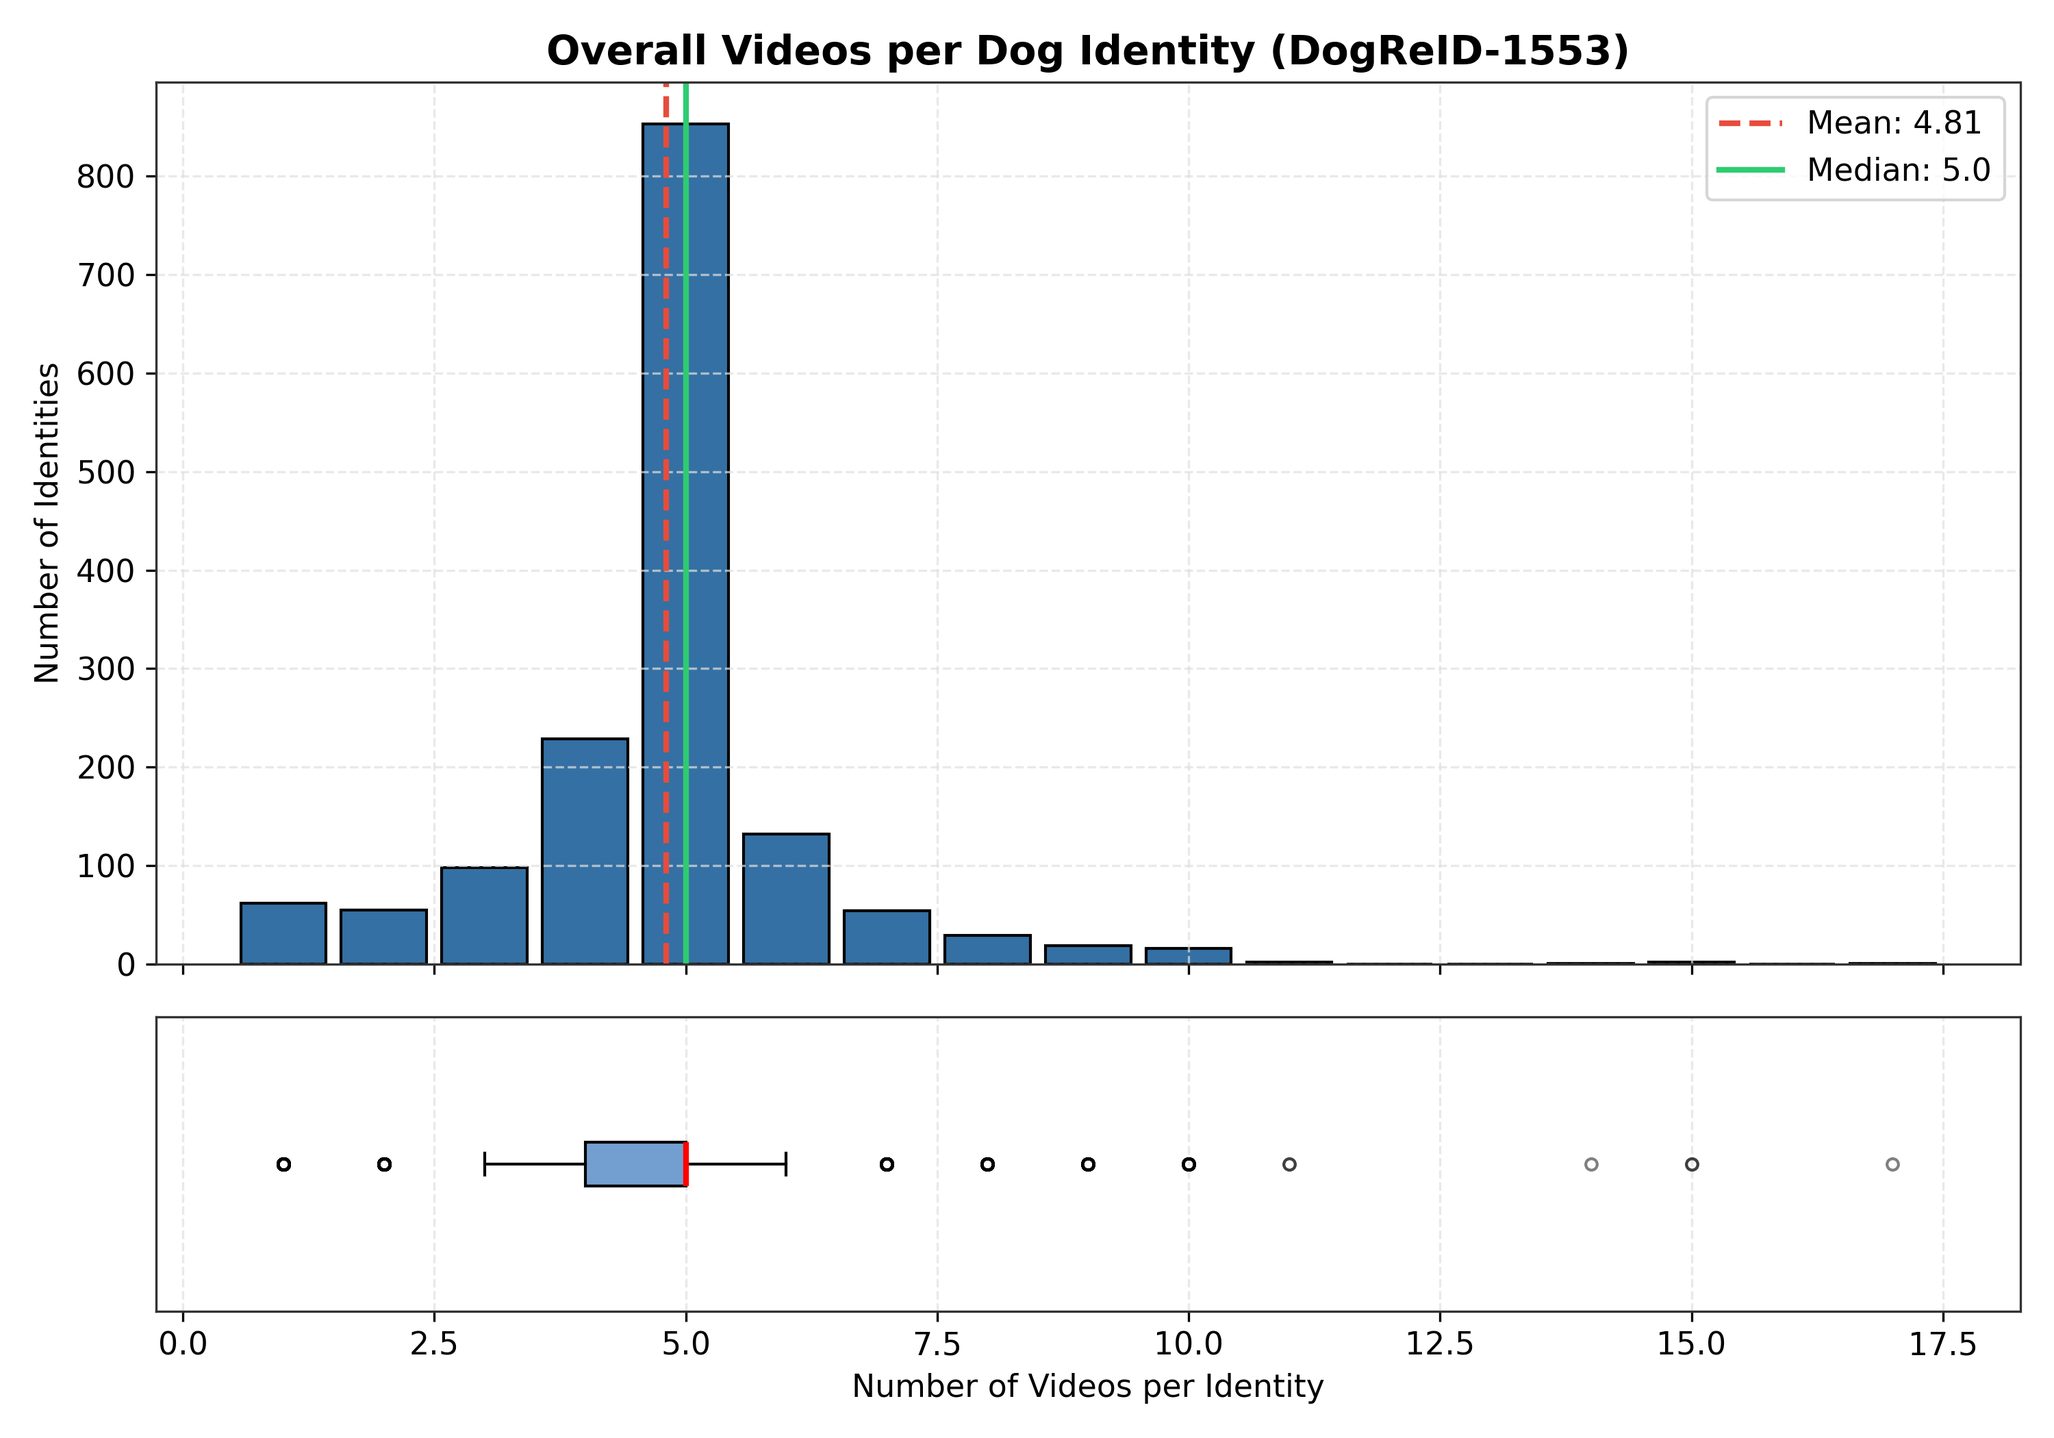
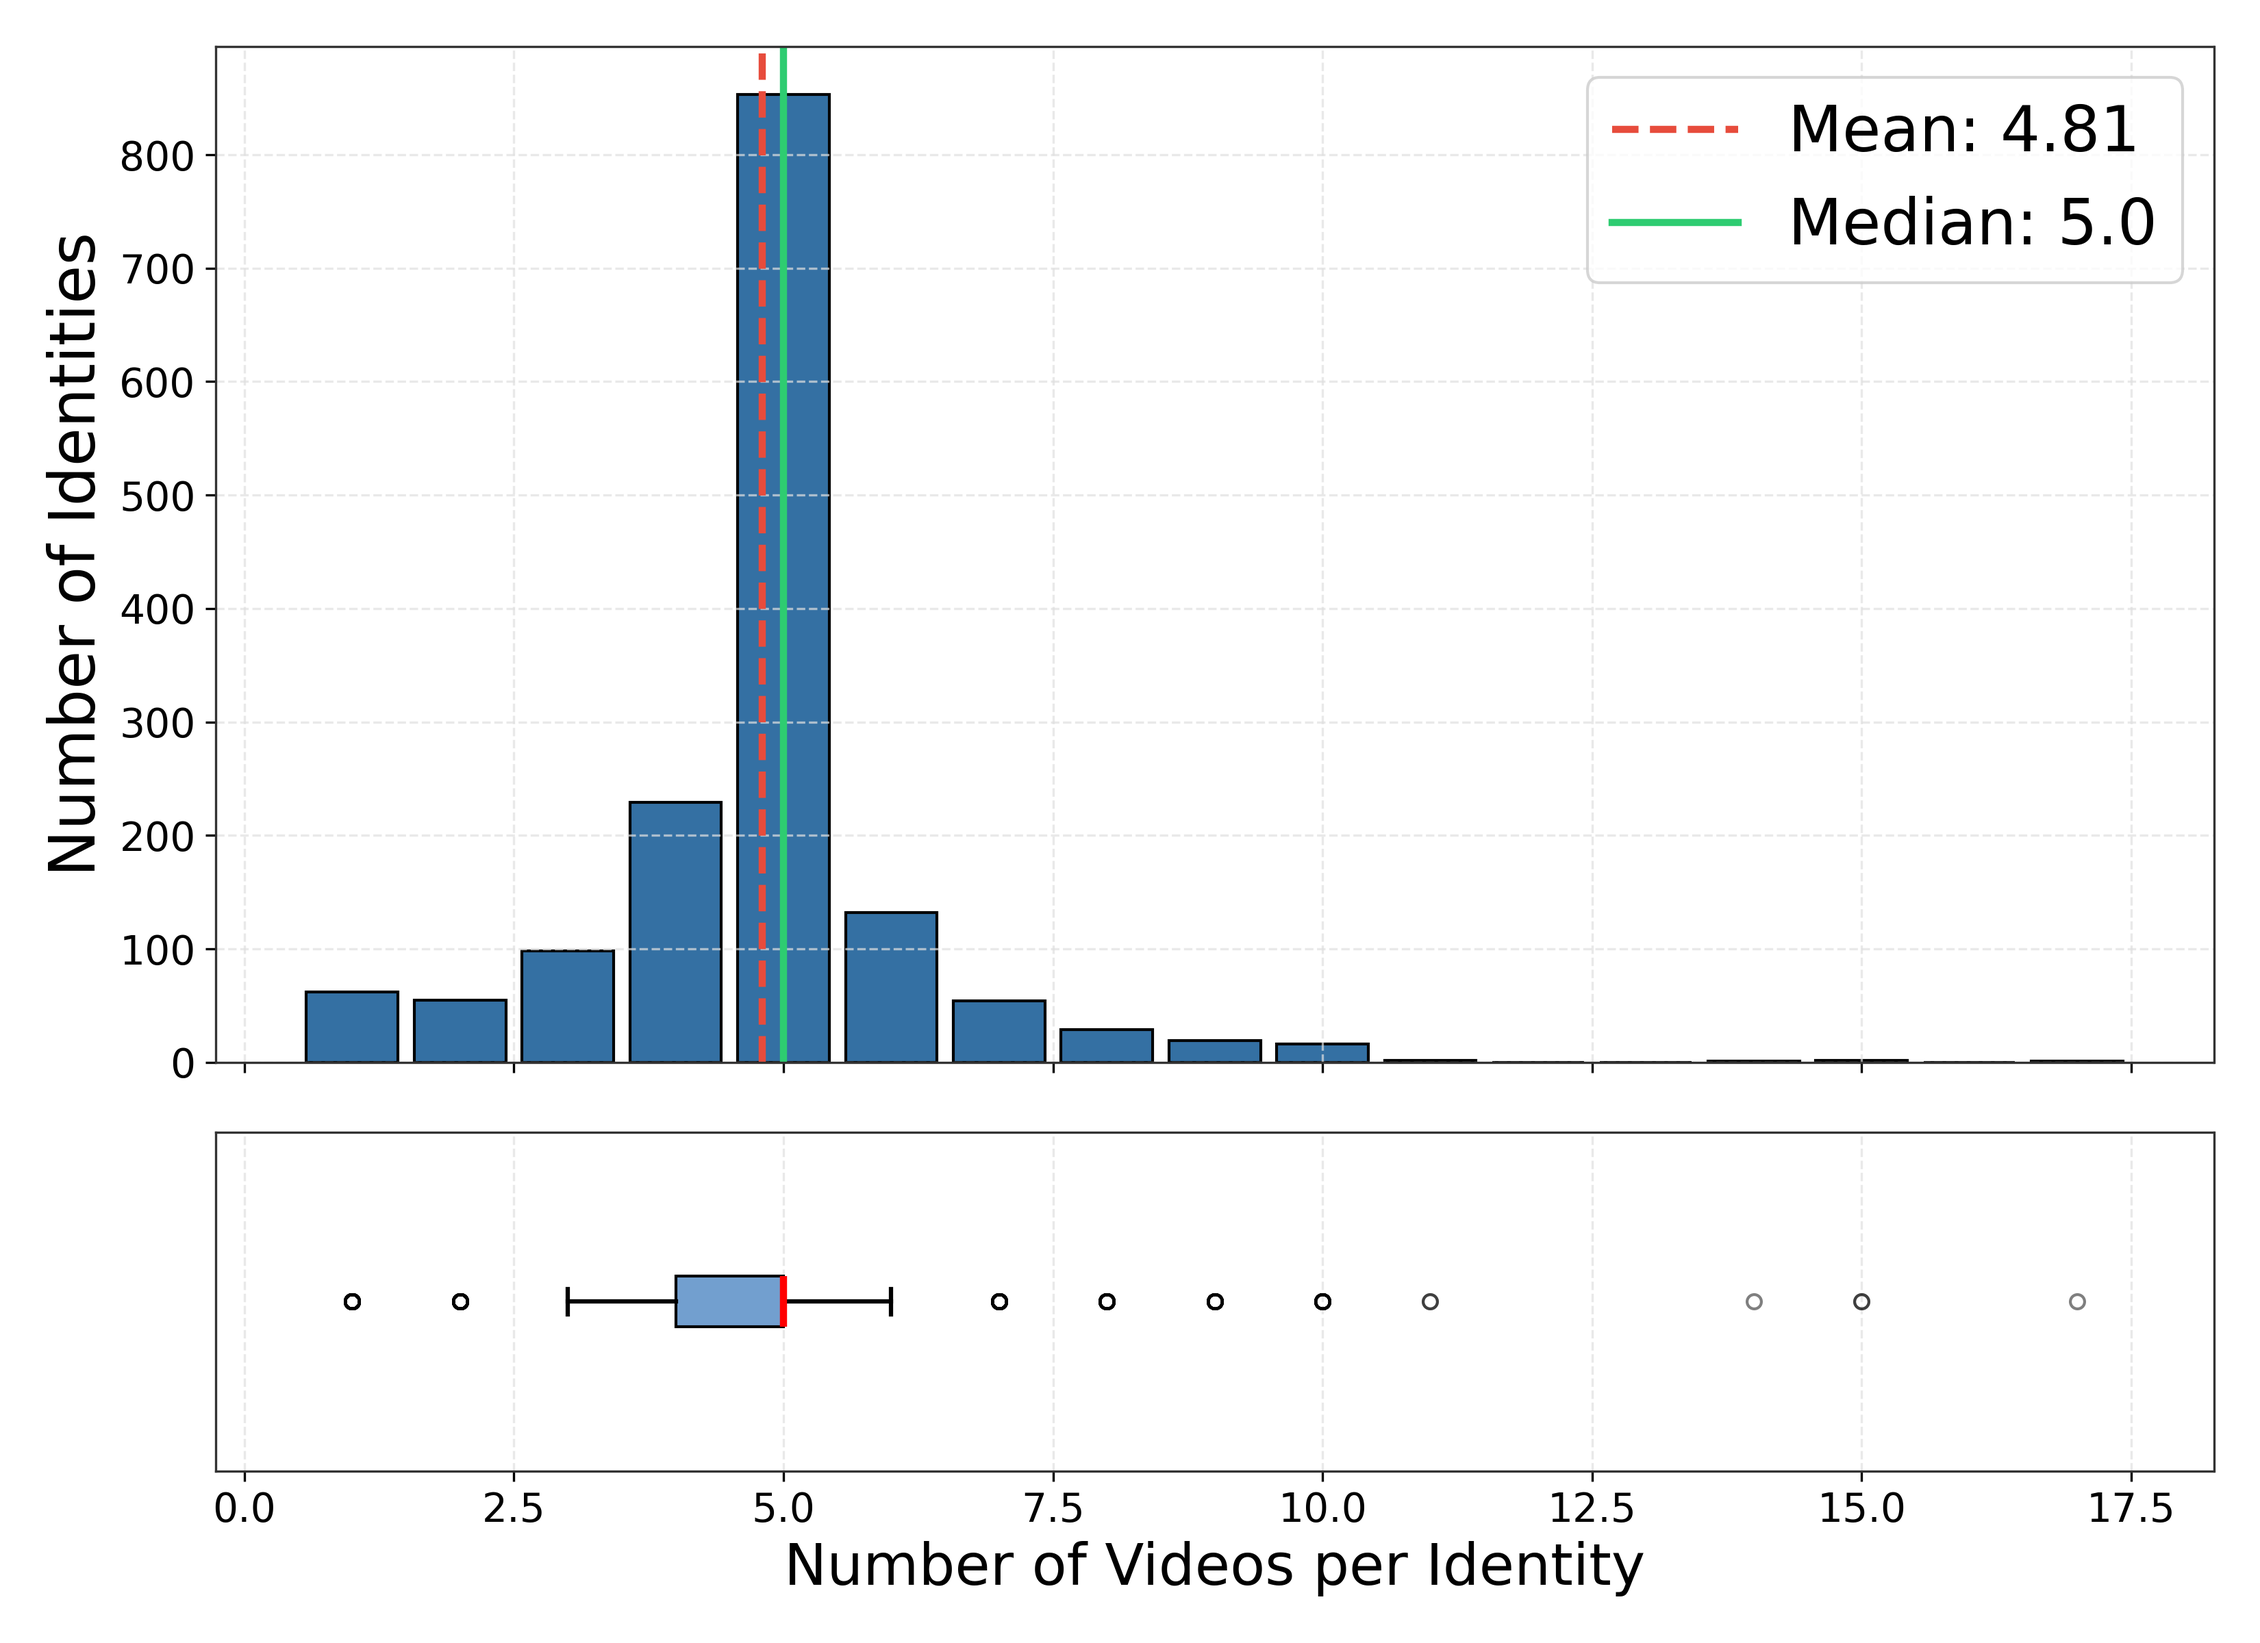
initial tf-clip

diff --git a/evaluation/visualize_id_distribution.py b/evaluation/visualize_id_distribution.py
@@ -67,9 +67,15 @@ def main():
     df = pd.read_csv(csv_path)
     print(f"Loaded {len(df)} video records across {df['DOG_ID'].nunique()} dogs from {csv_path}")
 
-    # Pure matplotlib styling
+    # Matplotlib styling with prominent font sizes
     plt.rcParams.update({
-        "font.size": 11,
+        "font.size": 15,
+        "axes.labelsize": 16,
+        "axes.titlesize": 18,
+        "xtick.labelsize": 14,
+        "ytick.labelsize": 14,
+        "legend.fontsize": 14,
+        "figure.titlesize": 20,
         "axes.edgecolor": "#333333",
         "axes.grid": True,
         "grid.color": "#e0e0e0",
@@ -118,7 +124,7 @@ def main():
     # Plot 1: Overall Dataset Distribution (Histogram + Boxplot)
     # -------------------------------------------------------------
     fig, (ax_hist, ax_box) = plt.subplots(
-        2, 1, figsize=(10, 7), sharex=True, gridspec_kw={"height_ratios": [0.75, 0.25]}
+        2, 1, figsize=(11, 8), sharex=True, gridspec_kw={"height_ratios": [0.75, 0.25]}
     )
 
     max_val = int(overall_counts.max())
@@ -134,23 +140,22 @@ def main():
     )
     mean_v = float(overall_counts.mean())
     med_v = float(overall_counts.median())
-    ax_hist.axvline(mean_v, color="#e74c3c", linestyle="--", linewidth=2, label=f"Mean: {mean_v:.2f}")
-    ax_hist.axvline(med_v, color="#2ecc71", linestyle="-", linewidth=2, label=f"Median: {med_v:.1f}")
-    ax_hist.set_title("Overall Videos per Dog Identity (DogReID-1553)", fontsize=14, fontweight="bold")
-    ax_hist.set_ylabel("Number of Identities")
-    ax_hist.legend(fontsize=11)
+    ax_hist.axvline(mean_v, color="#e74c3c", linestyle="--", linewidth=2.5, label=f"Mean: {mean_v:.2f}")
+    ax_hist.axvline(med_v, color="#2ecc71", linestyle="-", linewidth=2.5, label=f"Median: {med_v:.1f}")
+    ax_hist.set_ylabel("Number of Identities", fontsize=22)
+    ax_hist.legend(fontsize=22)
 
     ax_box.boxplot(
         overall_counts,
         vert=False,
         patch_artist=True,
         boxprops=dict(facecolor="#729fcf", color="black"),
-        medianprops=dict(color="red", linewidth=2),
-        whiskerprops=dict(color="black"),
-        capprops=dict(color="black"),
-        flierprops=dict(marker="o", color="black", alpha=0.5, markersize=4)
+        medianprops=dict(color="red", linewidth=2.5),
+        whiskerprops=dict(color="black", linewidth=1.5),
+        capprops=dict(color="black", linewidth=1.5),
+        flierprops=dict(marker="o", color="black", alpha=0.5, markersize=5)
     )
-    ax_box.set_xlabel("Number of Videos per Identity")
+    ax_box.set_xlabel("Number of Videos per Identity", fontsize=20)
     ax_box.set_yticks([])
 
     out_overall = out_dir / "videos_per_id_overall.png"
@@ -161,7 +166,7 @@ def main():
     # -------------------------------------------------------------
     # Plot 2: Closed-Set vs Open-Set Comparison (Subplots)
     # -------------------------------------------------------------
-    fig, axes = plt.subplots(2, 3, figsize=(16, 9), sharey=True)
+    fig, axes = plt.subplots(2, 3, figsize=(18, 11), sharey=True)
 
     split_configs = [
         # Row 1: Closed-Set
@@ -188,14 +193,14 @@ def main():
         )
         m_val = float(counts.mean())
         md_val = float(counts.median())
-        ax.axvline(m_val, color="red", linestyle="--", linewidth=1.5, label=f"Mean: {m_val:.2f}")
-        ax.axvline(md_val, color="darkgreen", linestyle="-", linewidth=1.5, label=f"Med: {md_val:.1f}")
-        ax.set_title(f"{title} (n={len(counts)} dogs)", fontsize=12, fontweight="bold")
-        ax.set_xlabel("Videos per Dog")
-        ax.set_ylabel("Count of Dogs")
-        ax.legend(fontsize=10, loc="upper right")
+        ax.axvline(m_val, color="red", linestyle="--", linewidth=2, label=f"Mean: {m_val:.2f}")
+        ax.axvline(md_val, color="darkgreen", linestyle="-", linewidth=2, label=f"Med: {md_val:.1f}")
+        ax.set_title(f"{title} (n={len(counts)})", fontsize=16, fontweight="bold", pad=8)
+        ax.set_xlabel("Videos per Dog", fontsize=15)
+        ax.set_ylabel("Count of Dogs", fontsize=15)
+        ax.legend(fontsize=13, loc="upper right")
 
-    fig.suptitle("Videos per Identity Distribution Across Closed-Set and Open-Set Splits", fontsize=15, fontweight="bold", y=1.02)
+    fig.suptitle("Videos per Identity Distribution Across Closed-Set and Open-Set Splits", fontsize=20, fontweight="bold", y=1.02)
     plt.tight_layout()
     out_splits = out_dir / "videos_per_id_splits_breakdown.png"
     plt.savefig(out_splits, dpi=300, bbox_inches="tight")
@@ -205,7 +210,7 @@ def main():
     # -------------------------------------------------------------
     # Plot 3: Boxplot Comparison across all subsets
     # -------------------------------------------------------------
-    plt.figure(figsize=(11, 6))
+    plt.figure(figsize=(13, 7))
     subsets_data = [
         ("Closed Train", closed_train),
         ("Closed Query", closed_query),
@@ -224,21 +229,22 @@ def main():
         tick_labels=labels,
         patch_artist=True,
         showmeans=True,
-        meanprops={"marker": "^", "markerfacecolor": "white", "markeredgecolor": "black", "markersize": 8},
-        medianprops={"color": "red", "linewidth": 2},
-        whiskerprops={"color": "#333333"},
-        capprops={"color": "#333333"},
-        flierprops={"marker": "o", "color": "gray", "alpha": 0.4, "markersize": 4}
+        meanprops={"marker": "^", "markerfacecolor": "white", "markeredgecolor": "black", "markersize": 10},
+        medianprops={"color": "red", "linewidth": 2.5},
+        whiskerprops={"color": "#333333", "linewidth": 1.5},
+        capprops={"color": "#333333", "linewidth": 1.5},
+        flierprops={"marker": "o", "color": "gray", "alpha": 0.4, "markersize": 5}
     )
 
     for patch, color in zip(box["boxes"], colors):
         patch.set_facecolor(color)
         patch.set_alpha(0.7)
 
-    plt.title("Videos per Identity Comparison Across Subsets (▲ = Mean, Red Bar = Median)", fontsize=13, fontweight="bold")
-    plt.xlabel("Dataset Split / Subset")
-    plt.ylabel("Number of Videos")
-    plt.xticks(rotation=15)
+    plt.title("Videos per Identity Comparison Across Subsets (▲ = Mean, Red Bar = Median)", fontsize=18, fontweight="bold", pad=12)
+    plt.xlabel("Dataset Split / Subset", fontsize=16)
+    plt.ylabel("Number of Videos", fontsize=16)
+    plt.xticks(rotation=20, fontsize=14)
+    plt.yticks(fontsize=14)
     plt.tight_layout()
 
     out_box = out_dir / "videos_per_id_subsets_boxplot.png"
